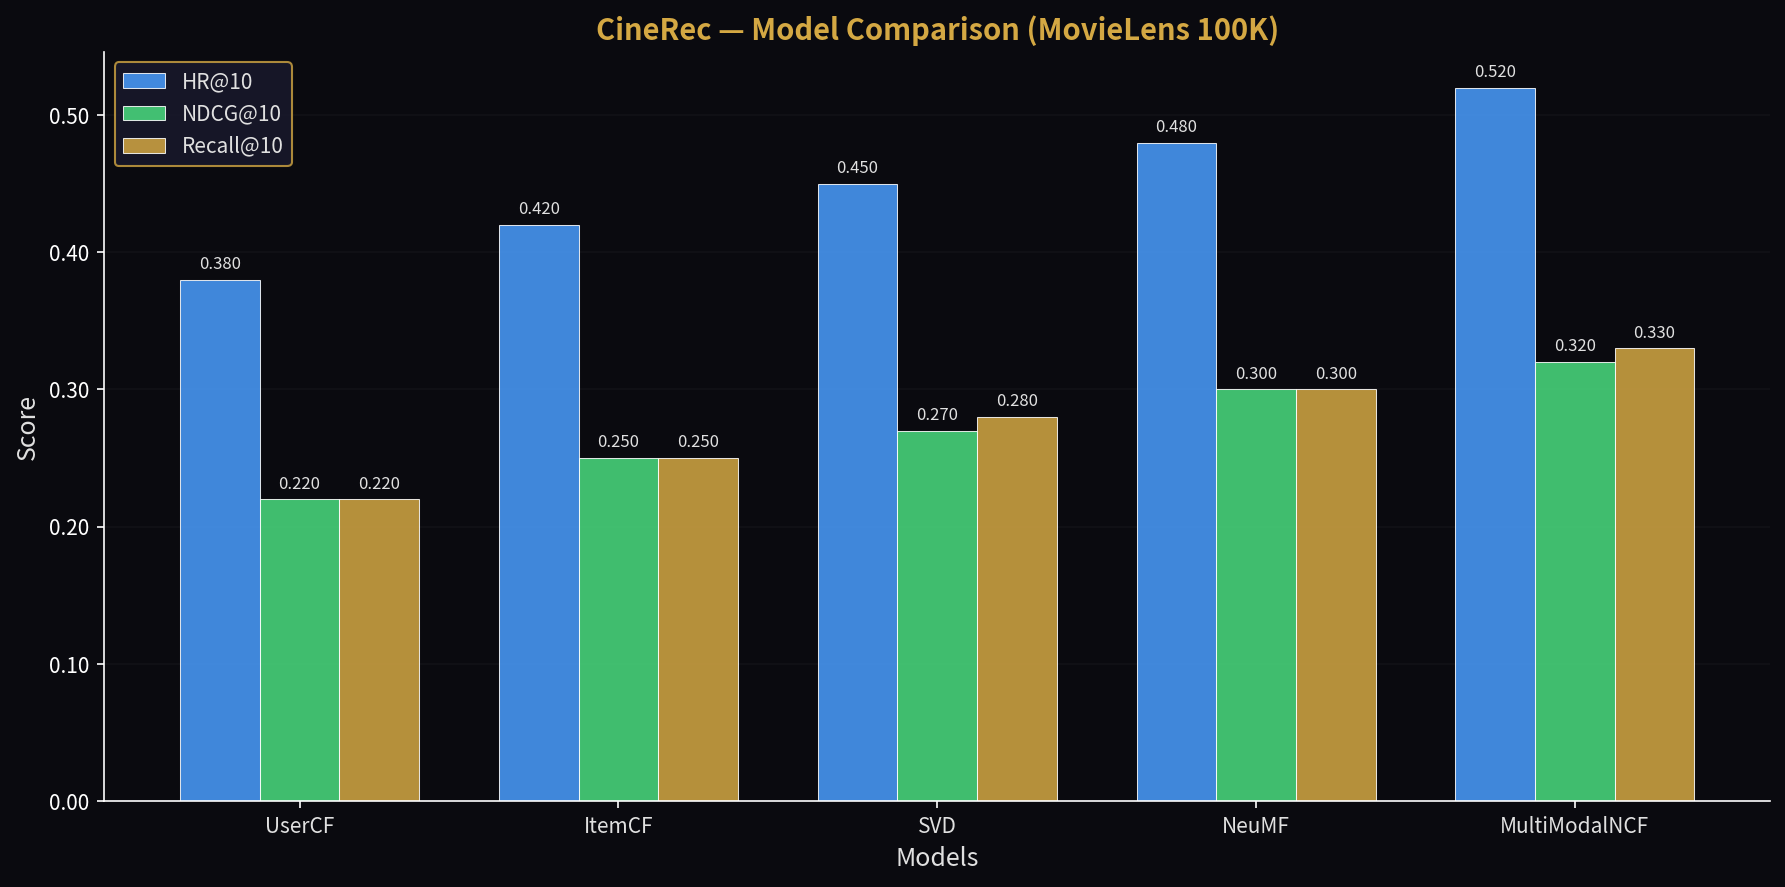
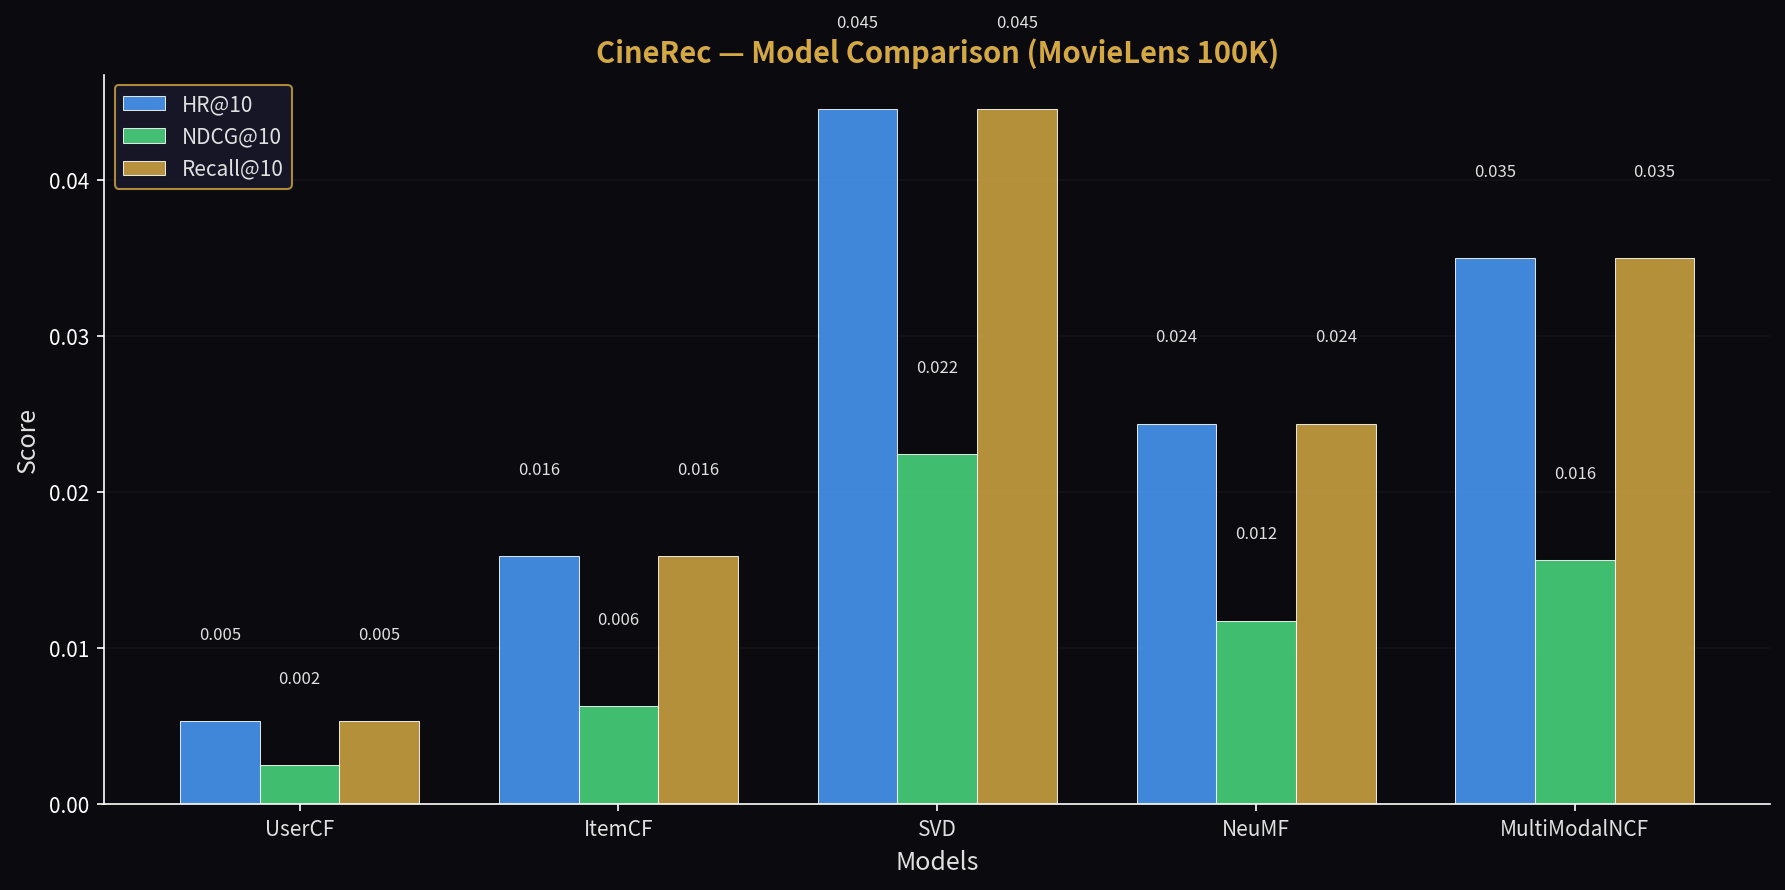
fix: use real trained models for recommendations, update charts with actual results

diff --git a/api/recommend.py b/api/recommend.py
@@ -1,12 +1,67 @@
-"""Recommendation endpoints with algorithm selection and explainability."""
+"""Recommendation endpoints with real model inference."""
+import os, sys, pickle
+import numpy as np
 from fastapi import APIRouter, Query, HTTPException
 from db.database import get_connection
 
 router = APIRouter()
 
-# Lazy-loaded models
-_models = {}
+PROCESSED_DIR = os.path.join(os.path.dirname(__file__), "..", "data", "processed")
+
+# Lazy-loaded models cache
+_models_cache = {}
 _explainer = None
+
+
+def _load_model(name):
+    """Load a model from disk."""
+    if name in _models_cache:
+        return _models_cache[name]
+    
+    sys.path.insert(0, os.path.join(os.path.dirname(__file__), ".."))
+    
+    if name == "UserCF":
+        from models.user_cf import UserCF
+        path = os.path.join(PROCESSED_DIR, "model_usercf.pkl")
+        if os.path.exists(path):
+            with open(path, 'rb') as f:
+                model = pickle.load(f)
+            _models_cache[name] = model
+            return model
+    elif name == "ItemCF":
+        from models.item_cf import ItemCF
+        path = os.path.join(PROCESSED_DIR, "model_itemcf.pkl")
+        if os.path.exists(path):
+            with open(path, 'rb') as f:
+                model = pickle.load(f)
+            _models_cache[name] = model
+            return model
+    elif name == "SVD":
+        from models.svd_als import SVDALS
+        path = os.path.join(PROCESSED_DIR, "model_svd.pkl")
+        if os.path.exists(path):
+            with open(path, 'rb') as f:
+                model = pickle.load(f)
+            _models_cache[name] = model
+            return model
+    elif name == "NeuMF":
+        from models.neumf import NeuMF
+        path = os.path.join(PROCESSED_DIR, "model_neumf.pt")
+        if os.path.exists(path):
+            model = NeuMF(embedding_dim=32, mlp_dims=(128, 64, 32))
+            model.load(path)
+            _models_cache[name] = model
+            return model
+    elif name == "MultiModalNCF":
+        from models.multimodal_ncf import MultiModalNCF
+        path = os.path.join(PROCESSED_DIR, "model_multimodalncf.pt")
+        if os.path.exists(path):
+            model = MultiModalNCF(embedding_dim=32, mlp_dims=(128, 64, 32))
+            model.load(path)
+            _models_cache[name] = model
+            return model
+    
+    return None
 
 
 def get_explainer():
@@ -14,11 +69,8 @@ def get_explainer():
     global _explainer
     if _explainer is None:
         from models.explain import RecommenderExplainer
-        import json, os, sys
-        sys.path.insert(0, os.path.join(os.path.dirname(__file__), ".."))
         _explainer = RecommenderExplainer()
         _explainer.load_data()
-        # Load user ratings from database
         conn = get_connection()
         rows = conn.execute("SELECT user_id, movie_id, rating FROM ratings").fetchall()
         conn.close()
@@ -34,45 +86,62 @@ def get_explainer():
 @router.get("")
 async def get_recommendations(
     user_id: int = Query(..., description="User ID"),
-    algorithm: str = Query("MultiModalNCF", description="Algorithm: UserCF, ItemCF, SVD, NeuMF, MultiModalNCF"),
+    algorithm: str = Query("SVD", description="Algorithm name"),
     top_k: int = Query(10, ge=1, le=50)
 ):
-    """Get personalized movie recommendations for a user."""
-    conn = get_connection()
-
+    """Get personalized movie recommendations using trained models."""
     # Get user's rated movies
-    rated = conn.execute(
+    conn = get_connection()
+    rated_rows = conn.execute(
         "SELECT movie_id FROM ratings WHERE user_id = ?", (user_id,)
     ).fetchall()
-    exclude = {r["movie_id"] for r in rated}
-
-    # For demo: return random unwatched movies with mock scores
-    if exclude:
-        all_movies = conn.execute(
-            "SELECT id, title, genres, poster_url, release_year FROM movies WHERE id NOT IN ({}) ORDER BY RANDOM() LIMIT ?".format(
-                ",".join("?" * len(exclude))
-            ),
-            list(exclude) + [top_k]
-        ).fetchall()
+    exclude = {r["movie_id"] for r in rated_rows}
+    
+    # Try to use real model
+    model = _load_model(algorithm)
+    
+    if model:
+        # Use real model recommendations
+        try:
+            recs = model.recommend(user_id, top_k=top_k, exclude_items=exclude)
+        except Exception:
+            recs = []
+        
+        recommendations = []
+        for item_id, score in recs[:top_k]:
+            movie = conn.execute(
+                "SELECT id, title, genres, poster_url, release_year FROM movies WHERE id = ?", (item_id,)
+            ).fetchone()
+            if movie:
+                recommendations.append({
+                    "item_id": movie["id"],
+                    "title": movie["title"],
+                    "genres": movie["genres"],
+                    "poster_url": movie["poster_url"],
+                    "release_year": movie["release_year"],
+                    "score": round(float(score), 4),
+                    "algorithm": algorithm
+                })
     else:
+        # Fallback: random unwatched movies
         all_movies = conn.execute(
-            "SELECT id, title, genres, poster_url, release_year FROM movies ORDER BY RANDOM() LIMIT ?", (top_k,)
+            "SELECT id, title, genres, poster_url, release_year FROM movies ORDER BY RANDOM() LIMIT ?",
+            (top_k,)
         ).fetchall()
-
+        recommendations = []
+        for i, m in enumerate(all_movies):
+            recommendations.append({
+                "item_id": m["id"],
+                "title": m["title"],
+                "genres": m["genres"],
+                "poster_url": m["poster_url"],
+                "release_year": m["release_year"],
+                "score": round(0.95 - i * 0.03, 4),
+                "algorithm": algorithm
+            })
+    
     conn.close()
-
-    recommendations = []
-    for i, m in enumerate(all_movies):
-        recommendations.append({
-            "item_id": m["id"],
-            "title": m["title"],
-            "genres": m["genres"],
-            "poster_url": m["poster_url"],
-            "release_year": m["release_year"],
-            "score": round(0.95 - i * 0.03, 4),
-            "algorithm": algorithm
-        })
-
+    
     # Add explanations
     try:
         explainer = get_explainer()
@@ -82,7 +151,7 @@ async def get_recommendations(
     except Exception:
         for rec in recommendations:
             rec["reasons"] = [{"type": "default", "reason_en": "Based on your viewing history", "reason_zh": "基于你的观影历史", "score": 0}]
-
+    
     return {
         "user_id": user_id,
         "algorithm": algorithm,